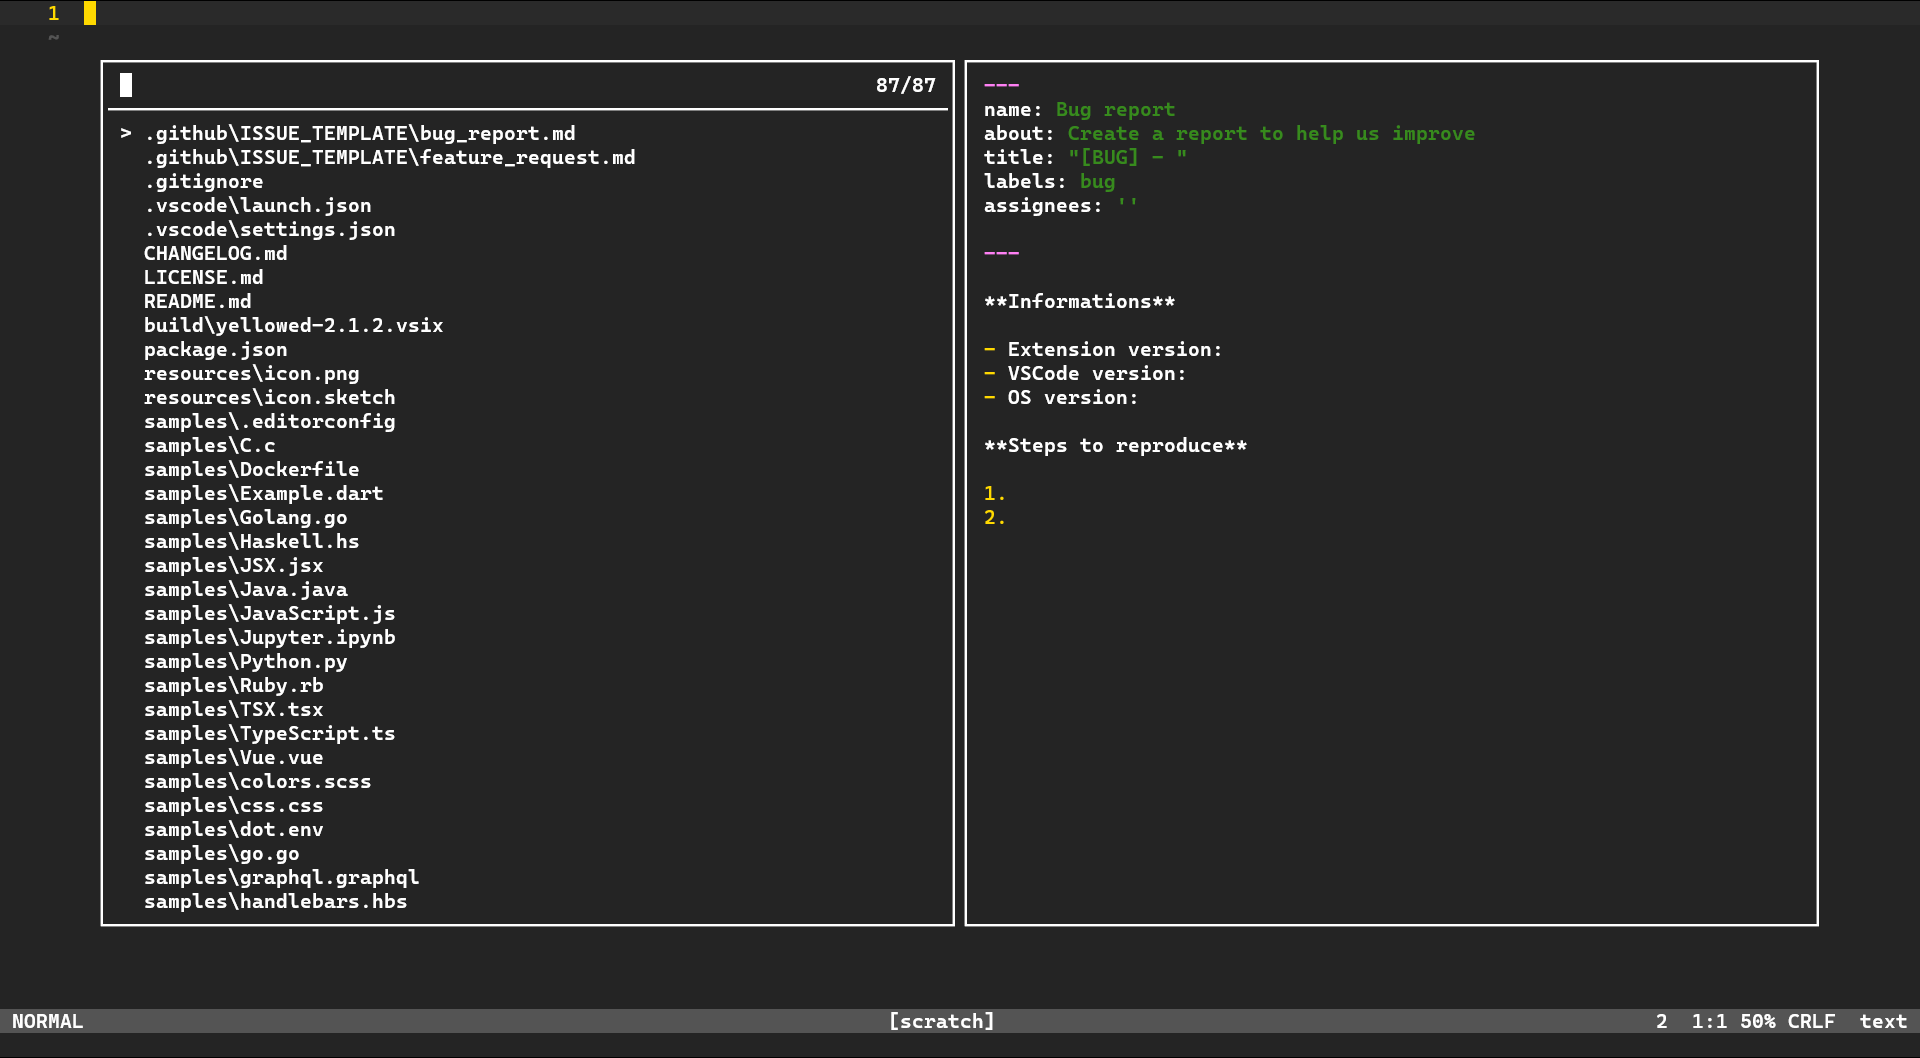
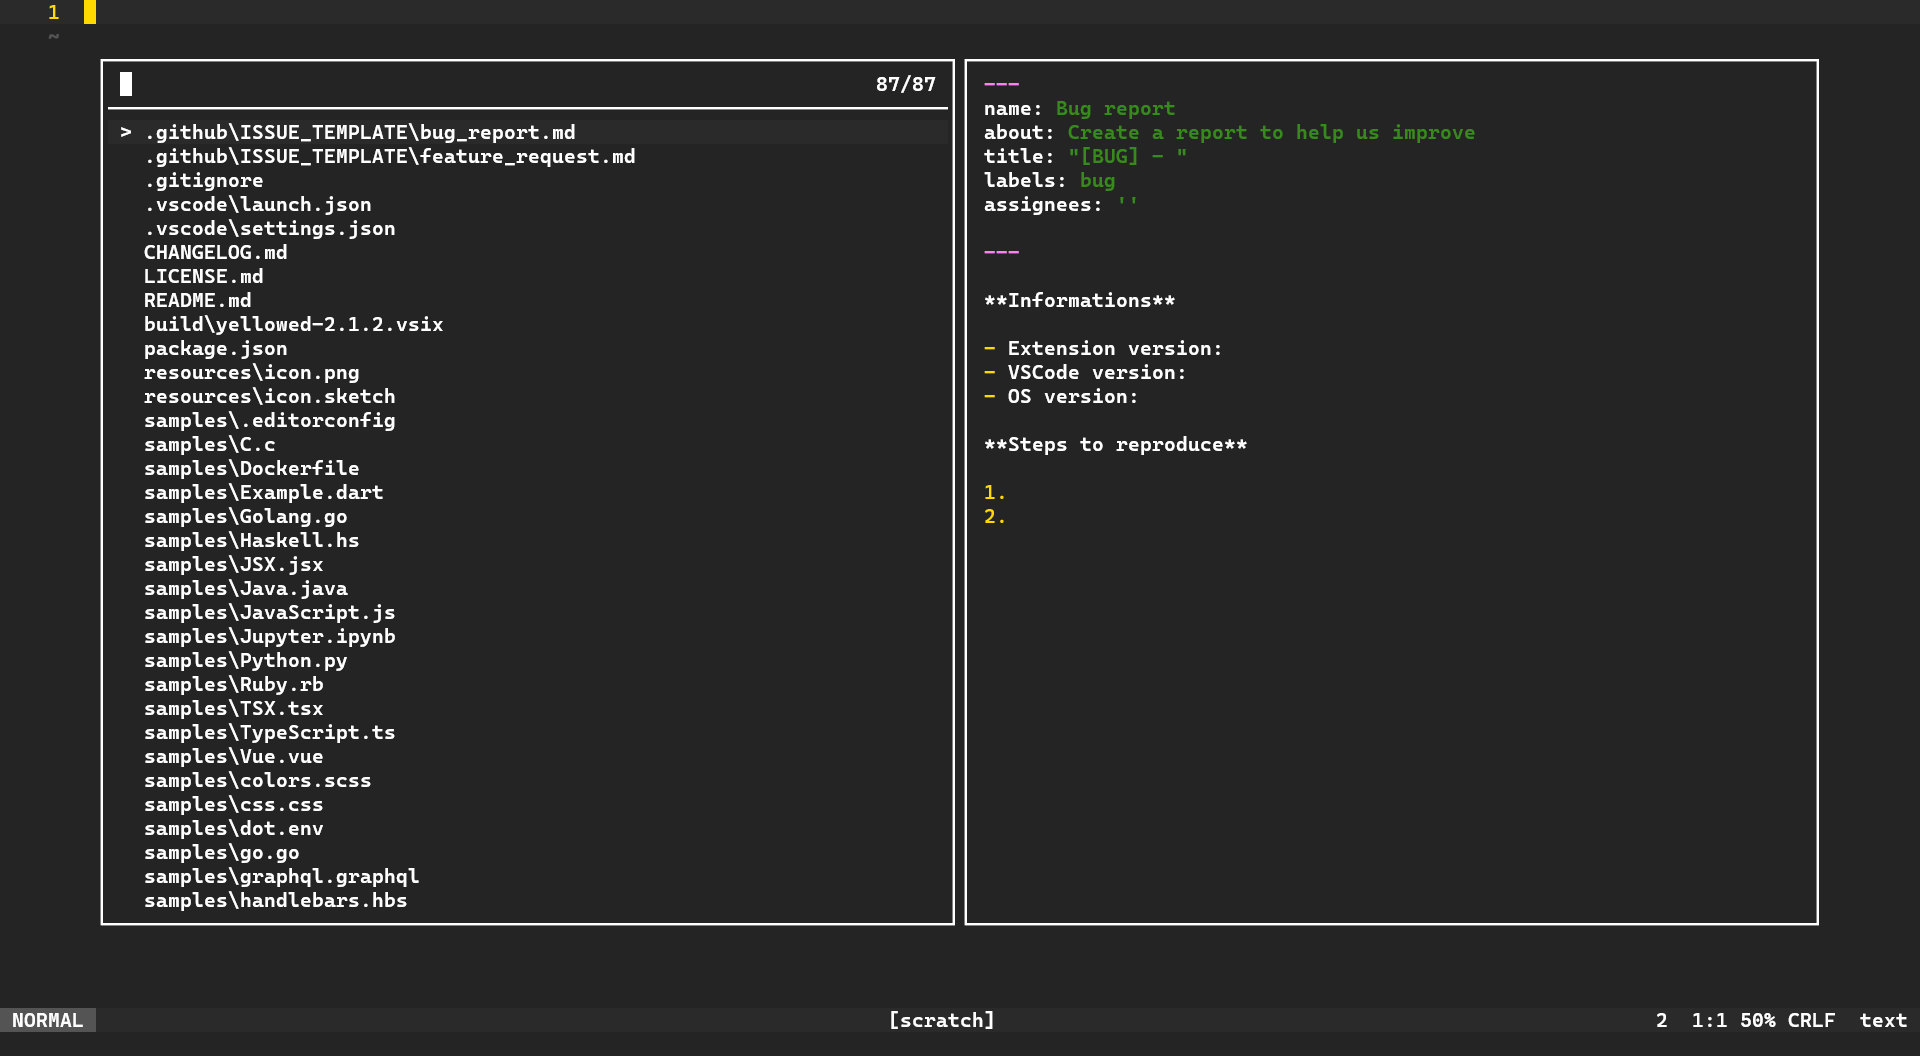
changed menu colors

diff --git a/README.md b/README.md
@@ -5,22 +5,22 @@
 ---
 
 <p align="center">
-  ⚙ Yellowed is a simple material dark theme for VHelix wich focus his syntax color on the golden yellow. Its syntax is inspired by the <a href="https://github.com/rexim/gruber-darker-theme">gruber-darker</a> theme for emacs, but changed a bit.</p>
+  :gear: Yellowed is a simple material dark theme for VHelix wich focus his syntax color on the golden yellow. Its syntax is inspired by the <a href="https://github.com/rexim/gruber-darker-theme">gruber-darker</a> theme for emacs, but changed a bit.</p>
 
 ---
 
 <!-- https://shields.io/ -->
 [![](https://img.shields.io/badge/license-BSD%203--Clause-blue?style=for-the-badge)]()
 
-###  Screenshots
+### :framed_picture: Screenshots
 ![screenshot1](./screenshots/screenshot1.png)
 ![screenshot2](./screenshots/screenshot2.png)
 ![screenshot3](./screenshots/screenshot3.png)
 
-### ❓ How to install ?
+### :question: How to install ?
 To install you just need to put the `yellowed.toml` file into the themes folder of your Helix config folder. This one should be on `~/.config/helix/themes` on linux or `%AppData%\helix\themes` on windows.
 
-### ⚙ Color Palet
+### :gear: Color Palet
 ~~~
 Interface
 yellow      - [#ffd900]
@@ -29,6 +29,7 @@ dark_gray   - [#242424]
 light_gray  - [#545454]
 purple      - [#994c92]
 blue        - [#008DFF]
+menu        - [#202020]
 selection   - [#3f3f3f]
 
 Syntaxe
